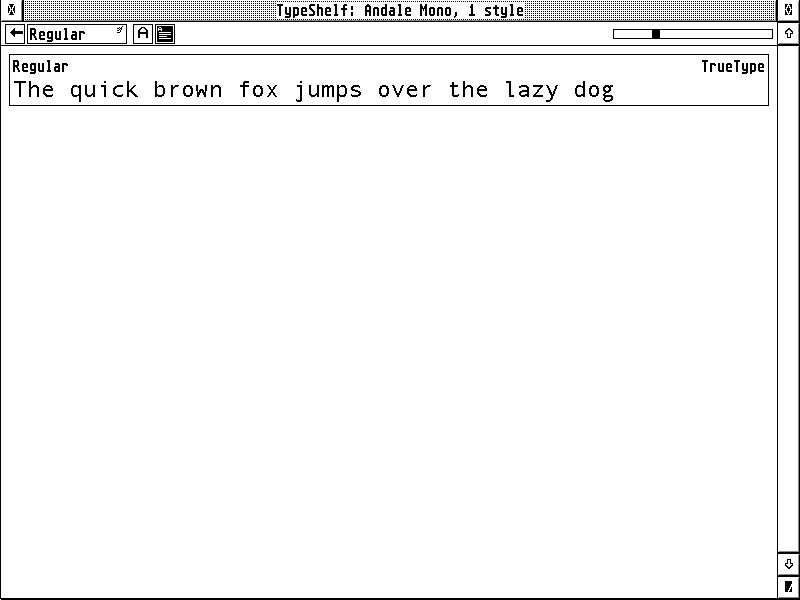
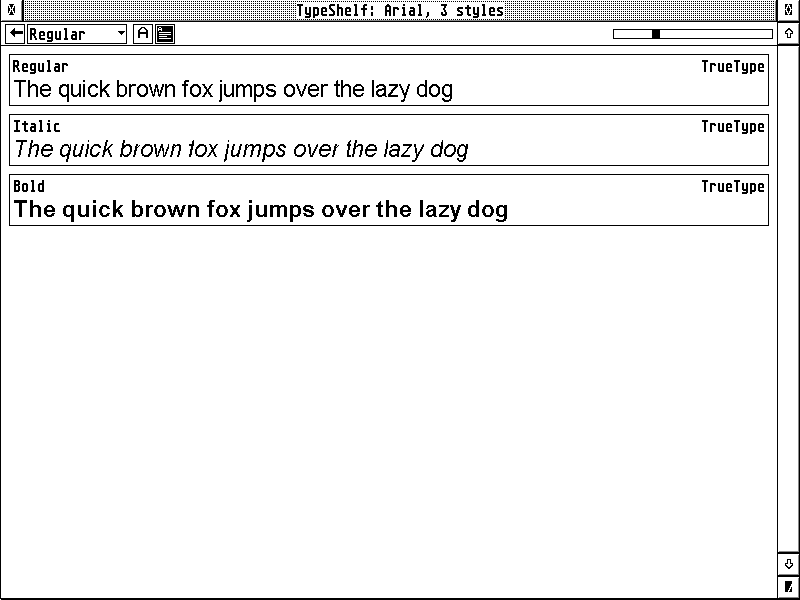
README: the family Samples screenshot shows Arial's three styles; Specimen with the drawn arrow (#51)
Claude-Session: https://claude.ai/code/session_01N7xGV8VRKjHiRtfkW7ikZ6

diff --git a/README.md b/README.md
@@ -44,9 +44,9 @@ All on pTOS (master, with its built-in scalable fonts) under QEMU `virt-arm`, in
 
 ![The Specimen view of Arial](docs/images/screenshot-specimen.png)
 
-**A family's Samples**: a card for each style.
+**A family's Samples**: a card for each style (Arial, with Regular, Italic and Bold).
 
-![The Samples of one family](docs/images/screenshot-family-samples.png)
+![The Samples of Arial: a card for each of its three styles](docs/images/screenshot-family-samples.png)
 
 **About**: the OS, the GDOS and its vector-font variant, the screen, and the font counts and features.
 
